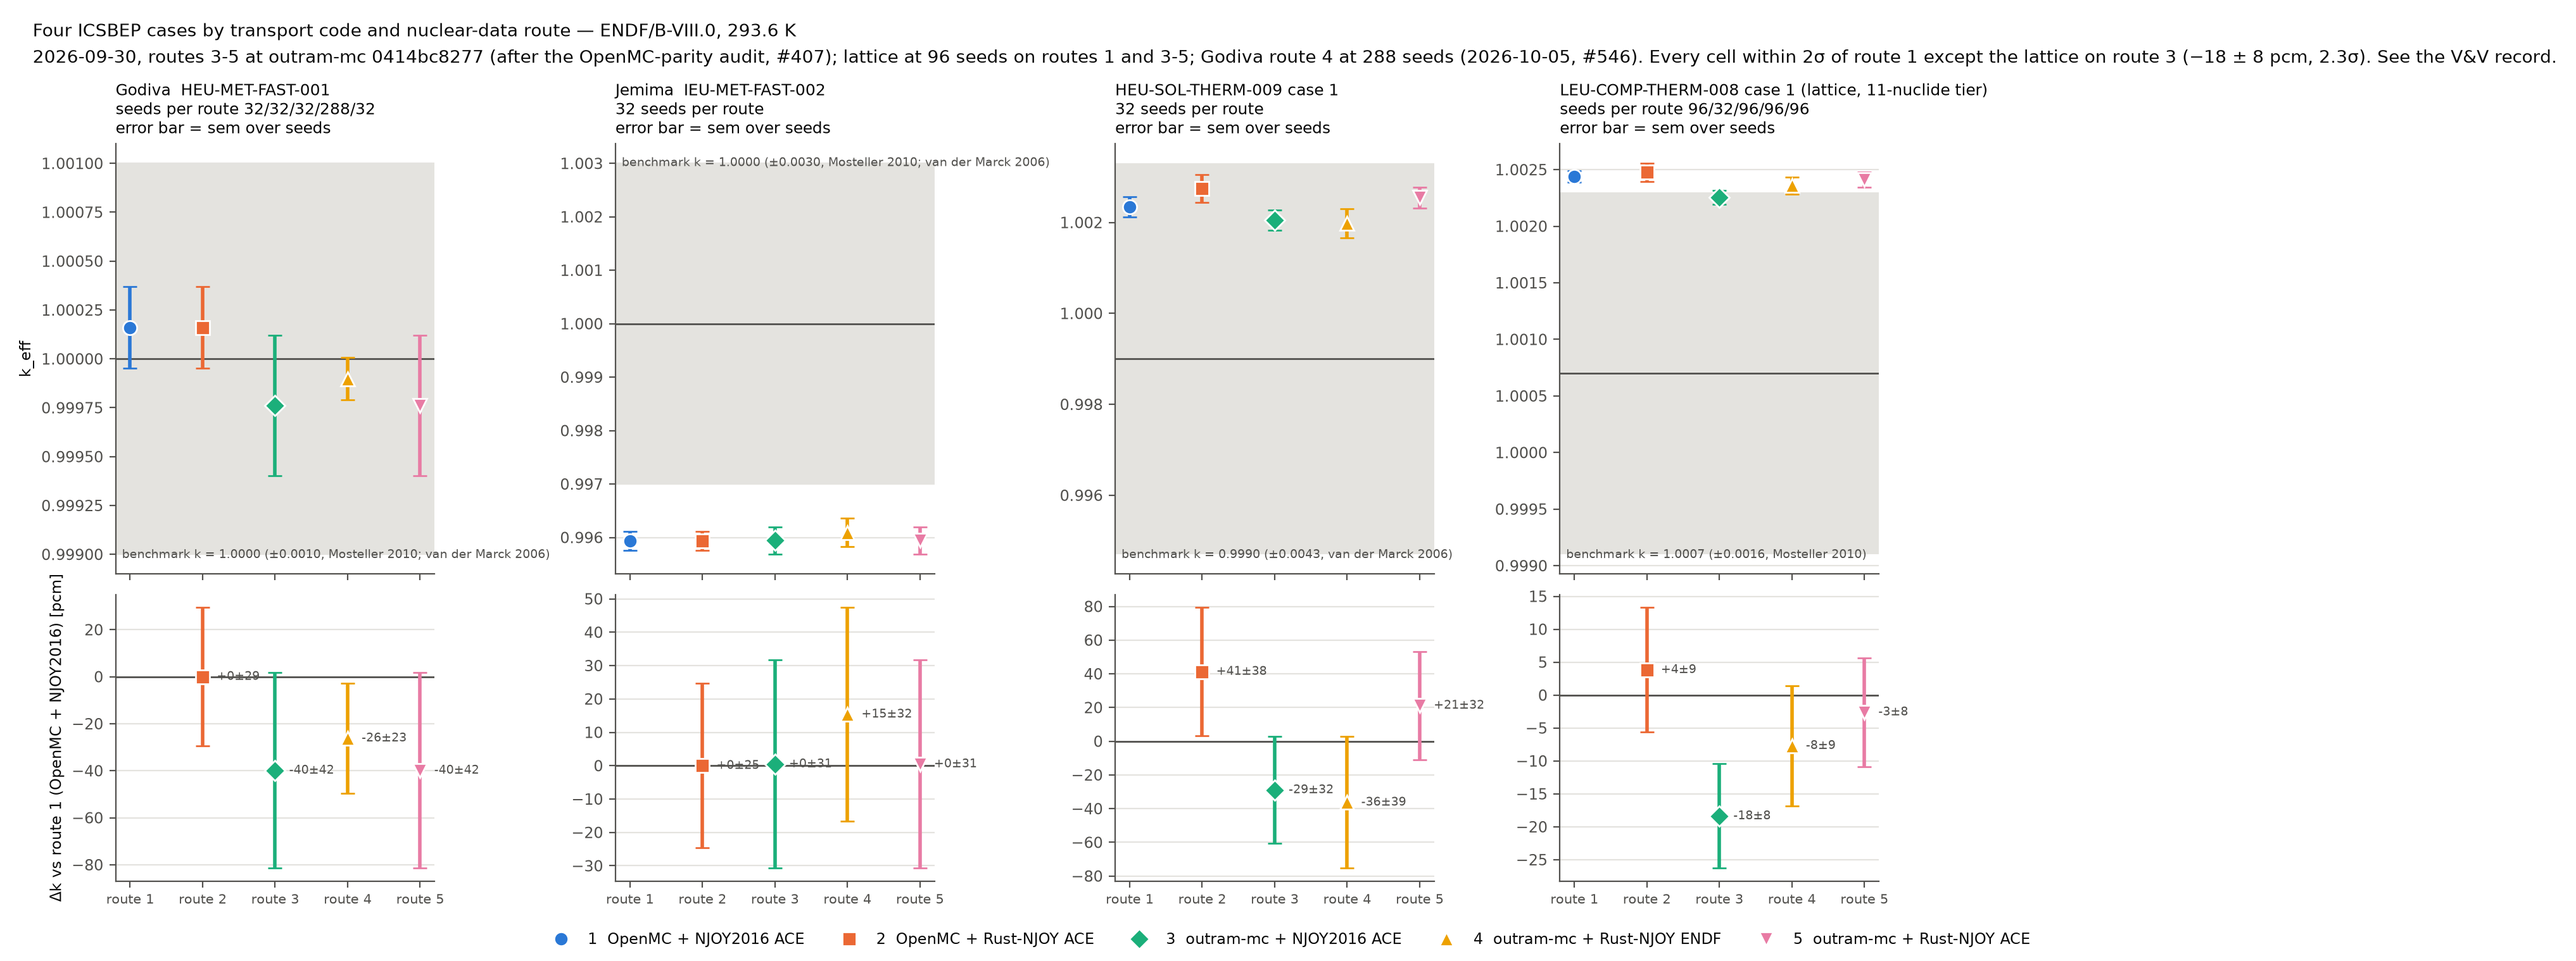
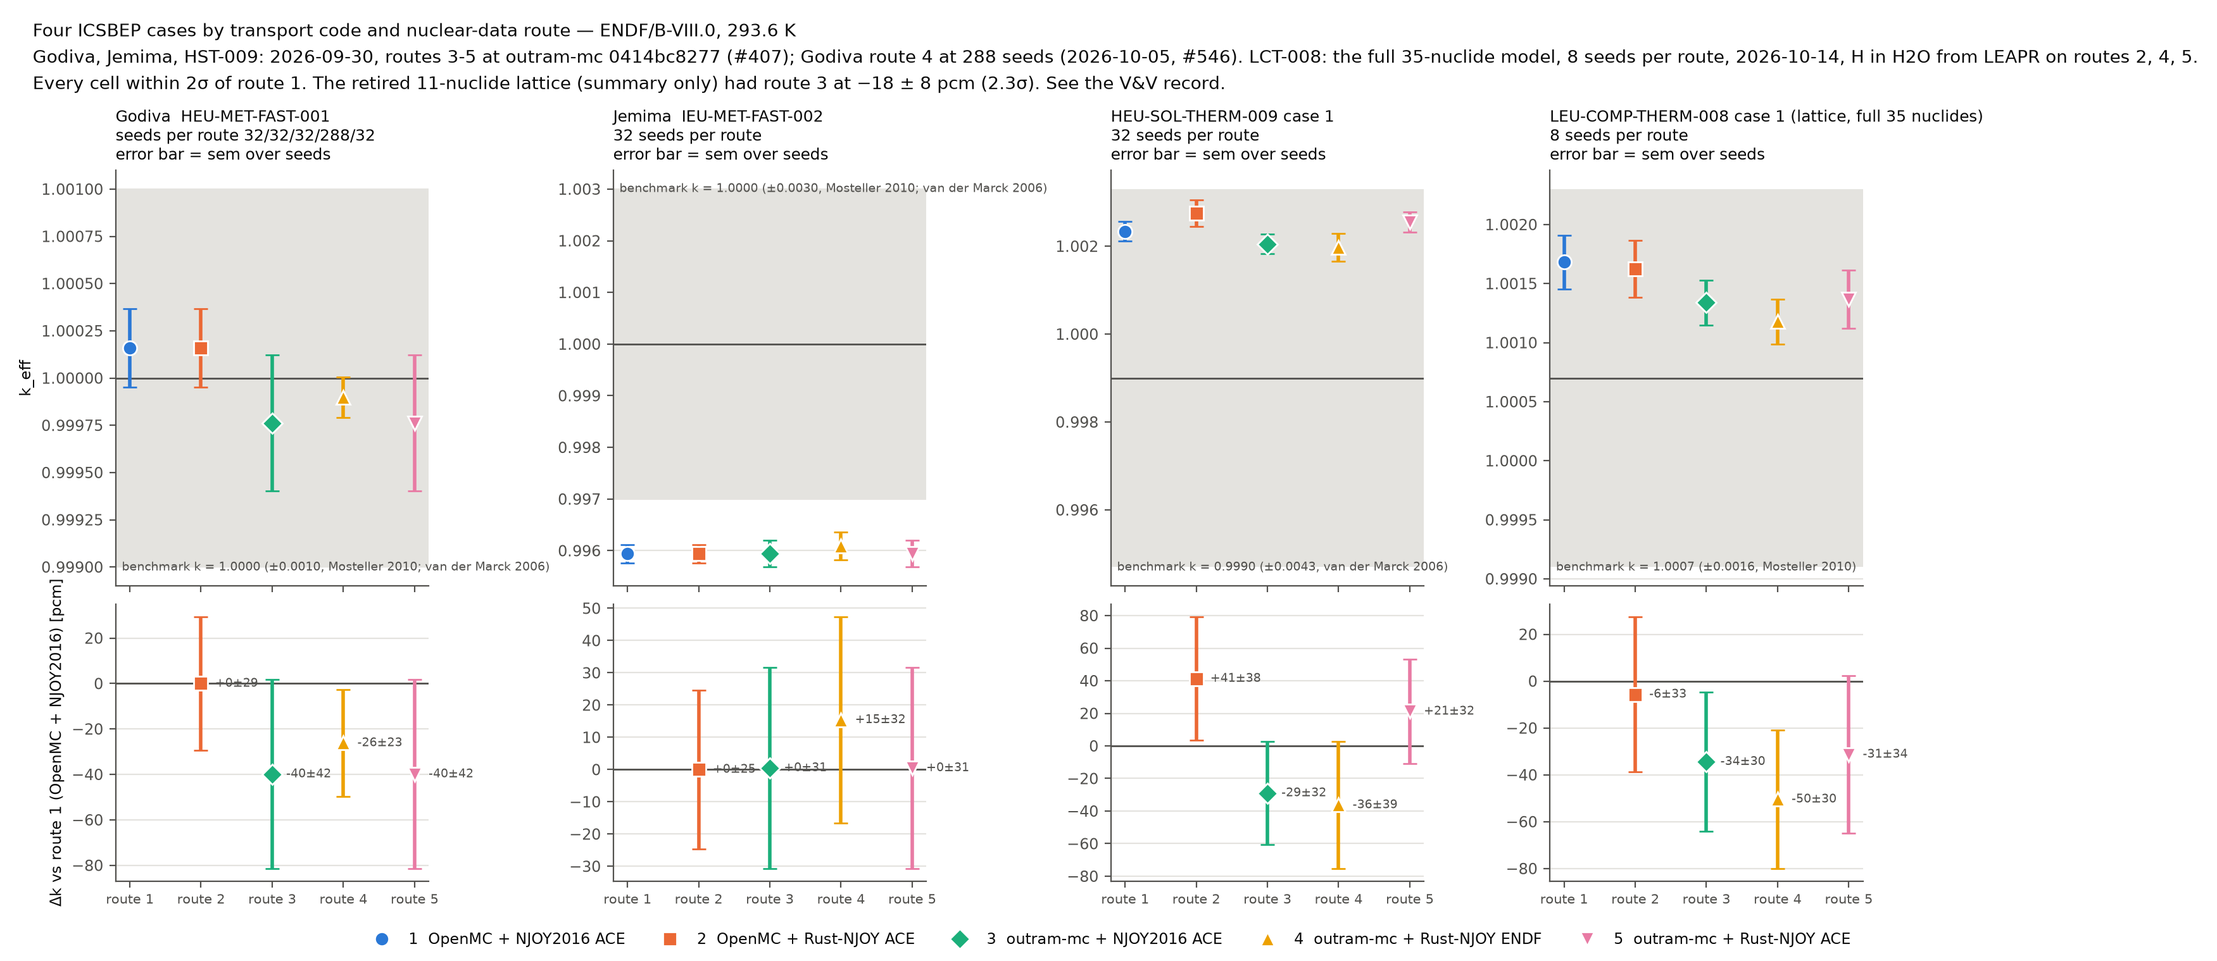
Five-route: LCT-008 on its full nuclide list, all five routes recorded
LCT-008 case 1 with all 35 nuclides, 10 000 x [250 + 400], 8 seeds per
route, H in H2O from LEAPR on routes 2, 4 and 5:

  route 1  OpenMC + NJOY2016          1.00168 +/- 0.00023  (predicted 1.00169)
  route 2  OpenMC + Rust NJOY         1.00163 +/- 0.00024  -6 +/- 33 pcm
  route 3  outram-mc + NJOY2016       1.00134 +/- 0.00019  -34 +/- 30
  route 4  outram-mc + Rust NJOY ENDF 1.00118 +/- 0.00019  -50 +/- 30
  route 5  outram-mc + Rust NJOY ACE  1.00137 +/- 0.00025  -31 +/- 34

Every route is within 2 sigma of route 1 and meets the prediction written
before it ran. The full model sits 76 +/- 23 pcm below the 11-nuclide one
on route 1 (#533: -75 +/- 14 on route 4). Routes 2 and 5 ran on the Rust
library after the Mg-24 ACER fix (98cb2c850); route 5's earlier rows are
superseded. OpenMC is ec3bc73 here, not d7d3284a1 as in every earlier row.

- per_seed_keff.csv gains the 40 `lct008-full` rows; summary_keff.{csv,md}
  and the figure are regenerated. Every other row is unchanged (checked by
  diff). The figure's subtitle is updated.
- data/lct008_full_five_routes_2026_10_14.md: methodology, host, the
  defect, predictions and results. The five-route record's status note
  points to it.
- The driver test now checks the full model's own route-1 row.

Host: Intel Xeon @ 2.80 GHz, 4 logical cores, 16 GB, Linux, CPU only.
Tests: icsbep_five_route_keff example 3/3; monte_carlo_web benchmark test.

No token accounting on this clone.
[…]

diff --git a/crates/outram-mc-libs/examples/icsbep_five_route_keff.rs b/crates/outram-mc-libs/examples/icsbep_five_route_keff.rs
@@ -965,9 +965,8 @@ mod draw_tests {
 
     /// LCT-008 runs its full nuclide list by default (2026-10-14), under the
     /// label `lct008-full`; `--cheap-nuclides` is the retired 11-nuclide tier, a smoke test,
-    /// under the label every earlier row carries. The full tier has no
-    /// recorded route-1 reference yet, so an acceptance check on it refuses
-    /// rather than borrowing the 11-nuclide one.
+    /// under the label every earlier row carries. Each tier is judged
+    /// against its own route-1 row, never the other's.
     #[test]
     fn lct008_runs_its_full_nuclide_list_under_its_own_label() {
         let nuclides = |c: &Case| {
@@ -983,7 +982,11 @@ mod draw_tests {
         assert_eq!(case_label("lct008", true), "lct008");
         assert_eq!(case_label("hst009", false), "hst009");
         let summary = include_str!("../verification_and_validation/icsbep/five_route_keff/data/summary_keff.csv");
-        assert!(route1_reference(summary, "lct008-full").is_err(), "no full-tier route-1 row is recorded yet");
+        // The full model's own route-1 row (2026-10-14, 8 seeds), never the
+        // 11-nuclide one.
+        let (k, sem) = route1_reference(summary, "lct008-full").expect("lct008-full route 1");
+        assert_eq!((k, sem), (1.001682, 0.000227));
+        assert_ne!(route1_reference(summary, "lct008").unwrap().0, k);
     }
 
     /// The `--draw` helpers: material colours are keyed on what a material

diff --git a/crates/outram-mc-libs/verification_and_validation/icsbep/five_route_keff/scripts/make_figure.py b/crates/outram-mc-libs/verification_and_validation/icsbep/five_route_keff/scripts/make_figure.py
@@ -195,9 +195,9 @@ def main():
                           label=lab.replace("\n", " + ")) for i, (_, lab) in enumerate(ROUTES)]
     fig.legend(handles=handles, loc="outside lower center", ncol=5, frameon=False, fontsize=8.5)
     fig.suptitle("Four ICSBEP cases by transport code and nuclear-data route — ENDF/B-VIII.0, 293.6 K\n"
-                 "2026-09-30, routes 3-5 at outram-mc 0414bc8277 (after the OpenMC-parity audit, #407); lattice at 96 seeds on routes 1 and 3-5; "
-                 "Godiva route 4 at 288 seeds (2026-10-05, #546). Every cell within 2σ of route 1 except the lattice on route 3 "
-                 "(−18 ± 8 pcm, 2.3σ). See the V&V record.",
+                 "Godiva, Jemima, HST-009: 2026-09-30, routes 3-5 at outram-mc 0414bc8277 (#407); Godiva route 4 at 288 seeds (2026-10-05, #546). "
+                 "LCT-008: the full 35-nuclide model, 8 seeds per route, 2026-10-14, H in H2O from LEAPR on routes 2, 4, 5.\n"
+                 "Every cell within 2σ of route 1. The retired 11-nuclide lattice (summary only) had route 3 at −18 ± 8 pcm (2.3σ). See the V&V record.",
                  fontsize=10, x=0.01, ha="left", linespacing=1.5)
     (OUT / "figures").mkdir(parents=True, exist_ok=True)
     fig.savefig(OUT / "figures" / "five_route_keff.png", dpi=200, metadata={"Software": None},

diff --git a/crates/outram-mc-libs/verification_and_validation/icsbep/five_route_keff/data/lct008_full_five_routes_2026_10_14.md b/crates/outram-mc-libs/verification_and_validation/icsbep/five_route_keff/data/lct008_full_five_routes_2026_10_14.md
@@ -1,0 +1,94 @@
+# LCT-008 on its full nuclide list, all five routes (2026-10-14)
+
+> Research, education and V&V only.
+
+**Data**, merged into `per_seed_keff.csv` as case `lct008-full`, 8 seeds per
+route:
+- `per_seed_keff_lct008_full_routes123_2026_10_14.csv`: routes 1 and 3;
+  route 2's failed attempt left no rows;
+- `per_seed_keff_lct008_full_routes45_2026_10_14.csv`: route 4; its route-5
+  rows are superseded (see below);
+- `per_seed_keff_lct008_full_routes25_fixed_2026_10_14.csv`: routes 2 and 5
+  on the corrected Rust-NJOY library.
+
+The summary (`summary_keff.{csv,md}`) and the figure are regenerated from
+them.
+
+## Methodology
+
+- **Model:** LEU-COMP-THERM-008 case 1, the lattice, with every nuclide of
+  the case-1 cards (35). This is the model since 2026-10-14; the 11-nuclide
+  tier is retired to a smoke test.
+- **Run size:** 10 000 × [250 + 400], seeds 1–8 on every route, 4 threads.
+- **Routes:**
+
+  | route | code | nuclear data | H in H₂O |
+  |---|---|---|---|
+  | 1 | OpenMC | NJOY2016 ACE | NJOY2016 table from `tsl-HinH2O.endf` (the reference) |
+  | 2 | OpenMC | Rust-NJOY ACE | LEAPR (`write_ace_library --thermal-leapr`) |
+  | 3 | outram-mc | NJOY2016 ACE | as route 1 |
+  | 4 | outram-mc | Rust NJOY, ENDF read directly | LEAPR (`ThermalScattering::from_embedded_leapr_deck`) |
+  | 5 | outram-mc | Rust-NJOY ACE | LEAPR, as route 2 |
+
+- **Libraries:** both ACE libraries hold all 36 tapes of `nuclides.tsv`.
+  NJOY2016 2016.79 and OpenMC were built in this container. **OpenMC is
+  commit `ec3bc73`, not the 0.16.1-dev25 at `d7d3284a1` that ran every
+  earlier route-1 and route-2 row.**
+- **Host:** Intel Xeon @ 2.80 GHz, 4 logical cores, 16 GB, Linux, CPU only.
+- **Speed:** about 265 s per seed on OpenMC and 400–450 s on outram-mc,
+  measured on the same host.
+- **Predictions, written before each run:**
+  - route 1 ≈ 1.00169, the 11-nuclide route 1 less the 24 extra nuclides'
+    −75 pcm (#533);
+  - route 2 within 2σ of route 1;
+  - route 3 ≈ 1.00151;
+  - route 4 ≈ 1.00146;
+  - route 5 within 2σ of route 4 + 13 pcm.
+- **Pass criterion:** every route within 2σ of route 1.
+
+## A defect found by this run, fixed before routes 2 and 5 were recorded
+
+- **What failed:** route 2 segfaulted in OpenMC on every seed.
+- **Localised:** by swapping libraries one half at a time between the
+  Rust-NJOY and NJOY2016 tables, then nuclide by nuclide. The culprit was
+  **Mg-24**.
+- **Cause:** Mg-24 gives MT=16, 22, 28 and 91 as MF=4 + MF=5 with no MF=6.
+  The Rust ACER built continuum emissions only from MF=6, so it wrote those
+  reactions with TYR = 0 (no neutron out). Its NR was 11 against NJOY2016's
+  15.
+- **Fix:** `98cb2c850`, which follows upstream `acelod`
+  (`acefc.f90:5859-5870`, `:5924`). Mg-24 is now NJOY2016's table in every
+  word, and it is in `tests/ace_five_route_parity.rs`.
+- **Superseded:** route 5's first 8 seeds (1.00175 ± 0.00031) read the
+  defective table. They are struck through in
+  `lct008_full_routes45_2026_10_14.md`.
+- **Still open, #875:** 12 trace nuclides (Na-23, Ti-48, Cr-50/52/53/54,
+  Fe-57/58, Cu-65, Zn-64/66/67/68/70) still differ from NJOY2016 in some
+  words. OpenMC and outram-mc run on all of them. Their worth in k is
+  unmeasured.
+
+## Results
+
+| route | k ± sem | seed sd [pcm] | prediction | vs route 1 [pcm] | vs benchmark 1.0007 [pcm] |
+|---|---|---|---|---|---|
+| 1 | 1.00168 ± 0.00023 | 64 | 1.00169 | reference | +98 ± 23 |
+| 2 | 1.00163 ± 0.00024 | 68 | within 2σ of route 1 | −6 ± 33 (−0.2σ) | +93 ± 24 |
+| 3 | 1.00134 ± 0.00019 | 54 | 1.00151 | −34 ± 30 (−1.2σ) | +64 ± 19 |
+| 4 | 1.00118 ± 0.00019 | 54 | 1.00146 | −50 ± 30 (−1.7σ) | +48 ± 19 |
+| 5 | 1.00137 ± 0.00025 | 70 | route 4 + 13 | −31 ± 34 (−0.9σ) | +67 ± 25 |
+
+**Interpretation:**
+- **Every route is within 2σ of route 1**, and each meets its prediction.
+- **The extra nuclides' worth:** on route 1, the full model sits 76 ± 23 pcm
+  below the 11-nuclide model (1.00244 ± 0.00005). That agrees with #533's
+  −75 ± 14 on route 4.
+- **Rust NJOY + LEAPR versus NJOY2016, same code:**
+  - route 2 against route 1 (OpenMC) is −6 ± 33 pcm;
+  - route 5 against route 3 (outram-mc) is +3 ± 31 pcm.
+
+  Neither resolves a difference from the NJOY2016 data.
+- **outram-mc against OpenMC** sits 31–50 pcm low on routes 3–5. With 8
+  seeds that is not resolved; the 11-nuclide campaign put it at −3 to −18 pcm.
+- **What 8 seeds can show:** a σ of about 30 pcm per difference, so these
+  numbers bound route differences near 60 pcm at 2σ. They do not reproduce
+  the 11-nuclide campaign's 96-seed resolution.

diff --git a/crates/outram-mc-libs/verification_and_validation/icsbep/five_route_keff_2026_09_29.md b/crates/outram-mc-libs/verification_and_validation/icsbep/five_route_keff_2026_09_29.md
@@ -19,12 +19,26 @@ licensing or safety use.
   (2, 4 and 5): route 4 through `ThermalScattering::from_embedded_leapr_deck`,
   routes 2 and 5 through `write_ace_library --thermal-leapr`. Routes 1 and 3
   keep NJOY2016's table, the reference.
-- **Every LCT-008 number in this record is the 11-nuclide model.** The
+- ~~**Every LCT-008 number in this record is the 11-nuclide model.** The
   full-model campaign (all five routes) has not been run: routes 1 and 2 need
-  OpenMC. **First full-model numbers, routes 4 and 5, 8 seeds each
+  OpenMC.~~ **CORRECTED later 2026-10-14:** the LCT-008 numbers in the body of
+  this record are the 11-nuclide model; the full model now has all five
+  routes (below). **First full-model numbers, routes 4 and 5, 8 seeds each
   (2026-10-14, `five_route_keff/data/lct008_full_routes45_2026_10_14.md`):**
-  route 4 1.00118 ± 0.00019, route 5 1.00175 ± 0.00031; route 5 − route 4
-  +58 ± 36 pcm (1.6σ, not resolved). Tracked in #874. The figure draws only the full-model panel; the
+  route 4 1.00118 ± 0.00019, ~~route 5 1.00175 ± 0.00031; route 5 − route 4
+  +58 ± 36 pcm (1.6σ, not resolved)~~ (route 5 superseded: it read a
+  defective Mg-24 table, fixed in `98cb2c850`). **All five routes on the full
+  model, 8 seeds each (later 2026-10-14,
+  `five_route_keff/data/lct008_full_five_routes_2026_10_14.md`, merged into
+  `per_seed_keff.csv` as `lct008-full`):**
+  - route 1 1.00168 ± 0.00023;
+  - route 2 1.00163 ± 0.00024;
+  - route 3 1.00134 ± 0.00019;
+  - route 4 1.00118 ± 0.00019;
+  - route 5 1.00137 ± 0.00025.
+
+  Every route is within 2σ of route 1. Routes 1 and 2 ran on OpenMC
+  `ec3bc73`, not on the earlier rows' `d7d3284a1`. Tracked in #874. The figure draws only the full-model panel; the
   11-nuclide rows stay in `summary_keff.csv` as the smoke test's reference.
 
 **Status (2026-09-30).** All five routes are complete for all four cases.

diff --git a/crates/outram-mc-libs/verification_and_validation/icsbep/five_route_keff/data/summary_keff.md b/crates/outram-mc-libs/verification_and_validation/icsbep/five_route_keff/data/summary_keff.md
@@ -15,6 +15,11 @@
 | hst009 | route3 | 32 | 1.00205 ± 0.00022 | 127 | +305 ± 22 | -29 ± 32 (-0.9σ) |
 | hst009 | route4 | 32 | 1.00198 ± 0.00032 | 181 | +298 ± 32 | -36 ± 39 (-0.9σ) |
 | hst009 | route5 | 32 | 1.00255 ± 0.00023 | 130 | +355 ± 23 | +21 ± 32 (+0.7σ) |
+| lct008-full | route1 | 8 | 1.00168 ± 0.00023 | 64 | +98 ± 23 | reference |
+| lct008-full | route2 | 8 | 1.00163 ± 0.00024 | 68 | +93 ± 24 | -6 ± 33 (-0.2σ) |
+| lct008-full | route3 | 8 | 1.00134 ± 0.00019 | 54 | +64 ± 19 | -34 ± 30 (-1.2σ) |
+| lct008-full | route4 | 8 | 1.00118 ± 0.00019 | 54 | +48 ± 19 | -50 ± 30 (-1.7σ) |
+| lct008-full | route5 | 8 | 1.00137 ± 0.00025 | 70 | +67 ± 25 | -31 ± 34 (-0.9σ) |
 | lct008 | route1 | 96 | 1.00244 ± 0.00005 | 50 | +174 ± 5 | reference |
 | lct008 | route2 | 32 | 1.00248 ± 0.00008 | 45 | +178 ± 8 | +4 ± 9 (+0.4σ) |
 | lct008 | route3 | 96 | 1.00225 ± 0.00006 | 59 | +155 ± 6 | -18 ± 8 (-2.3σ) |
